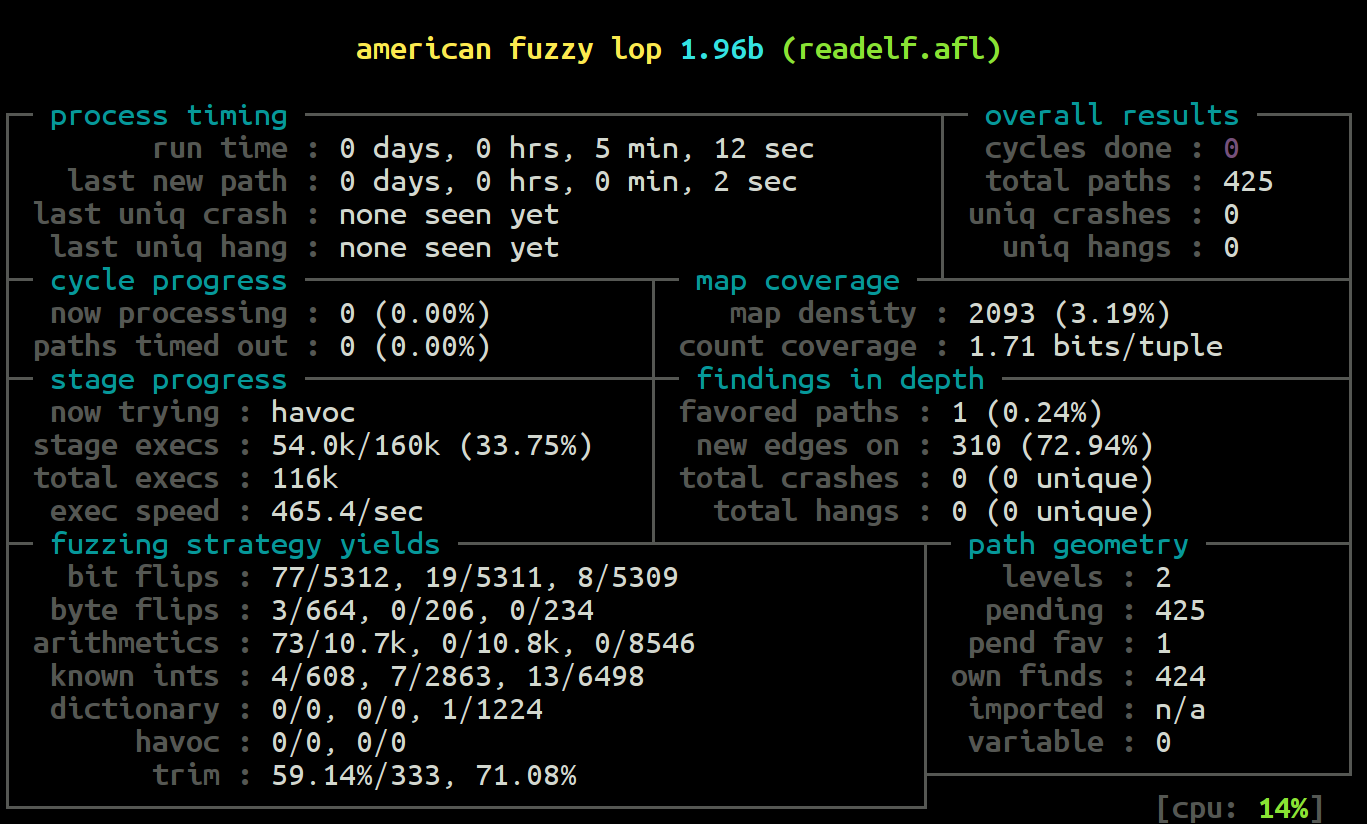
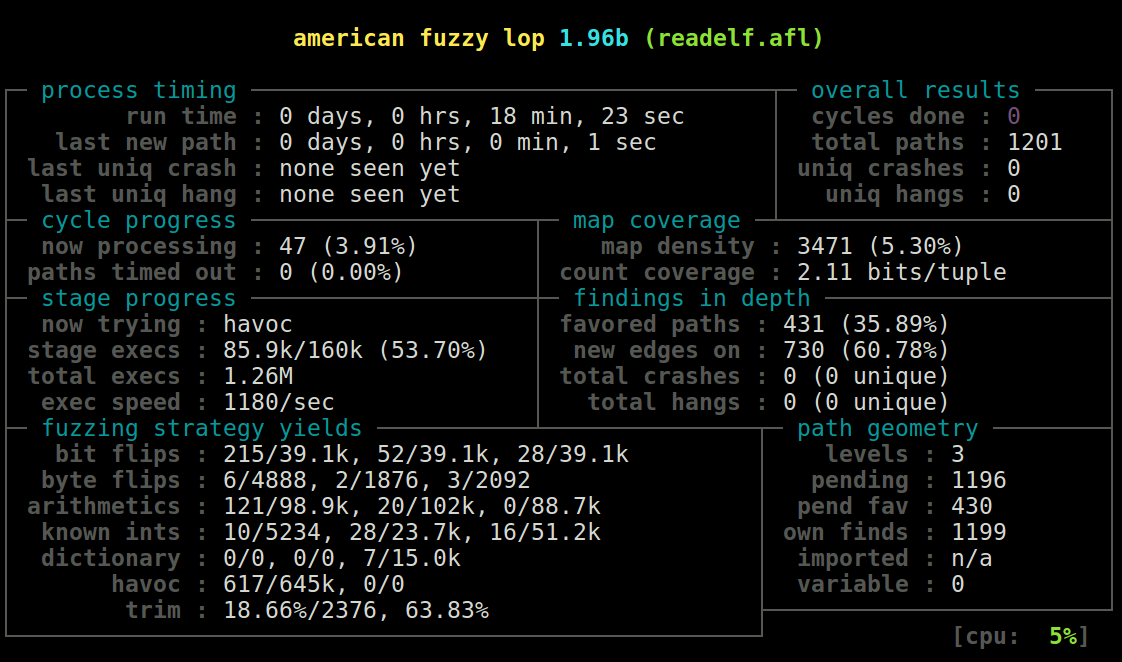
Update example & README
The old README text and example are out-of-date.

The current version:
- Uses a reasonably good control-flow recovery
  analysis.
- Solves the virtual address space usage problem
- Mitigates the fork() problem via several new
  optimizations.
- The execs/sec has more than doubled.

Changed region(s): [[0.0, 0.1208, 0.9982, 1.0], [0.2496, 0.0302, 0.7487, 0.0906]]

diff --git a/README.md b/README.md
@@ -5,7 +5,7 @@ E9AFL inserts [American Fuzzy Lop](https://github.com/google/AFL)
 This allows binaries to be fuzzed without the need for recompilation.
 
 E9AFL uses [E9Patch](https://github.com/GJDuck/e9patch) to insert the
-AFL instrumentation using static binary rewriting.
+AFL instrumentation via static binary rewriting.
 
 ## Building
 
@@ -27,10 +27,6 @@ This will generate an AFL-instrumented `binary.afl` which can be
 used with `afl-fuzz`.
 See the example below.
 
-Note that E9Patch uses a lot of virtual address space, so typically
-`afl-fuzz` should be run with a suitably high memory limit.
-See the `-m` option for `afl-fuzz`
-
 ## Example
 
 To fuzz the binutils `readelf` program:
@@ -39,7 +35,7 @@ To fuzz the binutils `readelf` program:
         $ mkdir -p input
         $ mkdir -p output
         $ head -n 1 `which ls` > input/exe
-        $ afl-fuzz -m 500000000 -i input/ -o output/ -- ./readelf.afl -a @@
+        $ afl-fuzz -i input/ -o output/ -- ./readelf.afl -a @@
 
 If all goes well the output should look something like this:
 
@@ -48,28 +44,10 @@ If all goes well the output should look something like this:
      alt="AFL example">
 </p>
 
-## Limitations
+## Bugs
 
-E9AFL is a quick port that has not been well-tested.
 Please report bugs [here](https://github.com/GJDuck/e9afl/issues).
 
-E9AFL relies on a basic-block recovery analysis which is simple but
-inaccurate for indirect jumps.
-This means that some paths will not be visible to `afl-fuzz`.
-E9Patch may fail to instrument some instructions, which may also result in 
-missed paths.
-However, for most binaries E9AFL should give reasonable performance.
-
-E9AFL is built on top of [E9Patch](https://github.com/GJDuck/e9patch),
-which is a trampoline-based binary rewriting tool.
-This approach may generate additional overheads in the
-form of soft page faults when trampolines are first accessed immediately
-after `fork()`.
-This adds latency compared to source-level fuzzing, which may
-slow down the overall execs/sec performance.
-Nevertheless, the performance of E9AFL appears to be somewhat better than
-other binary fuzzing solutions such as QEMU mode.
- 
 ## License
 
 GLPv3
